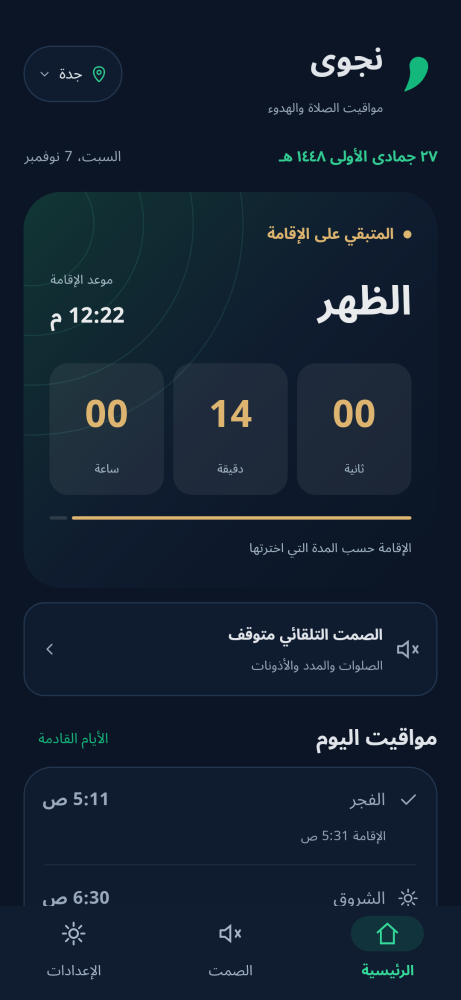
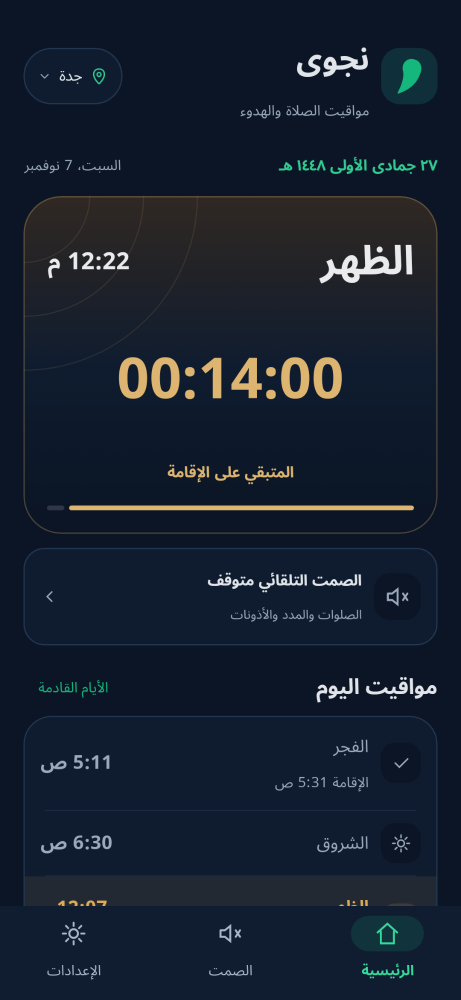
Refresh bilingual Najwa site for Android 1.1.0

diff --git a/docs/index.html b/docs/index.html
@@ -16,10 +16,10 @@
   <main class="shell">
     <section class="hero" aria-labelledby="title">
       <div>
-        <p class="eyebrow">أندرويد · الإصدار 1.0.0</p>
+        <p class="eyebrow">أندرويد · الإصدار 1.1.0</p>
         <h1 id="title">صلاتك أولاً،<br><em>وضجيجك لاحقاً.</em></h1>
         <p class="lead">تابع مواقيت الصلاة، واسمع الأذان بالنغمة التي تختارها. يعرض نجوى المتبقي على الإقامة ويضبط صمت الهاتف للمدة التي تحددها.</p>
-        <div class="actions"><a class="button primary" href="https://github.com/taroq4-2/Najwa/releases/download/v1.0.0/Najwa-1.0.0.apk">تحميل APK مباشرةً</a><a class="button" href="https://github.com/taroq4-2/Najwa">الشفرة على GitHub</a></div>
+        <div class="actions"><a class="button primary" href="https://github.com/taroq4-2/Najwa/releases/latest/download/Najwa.apk">تحميل APK مباشرةً</a><a class="button" href="https://github.com/taroq4-2/Najwa">الشفرة على GitHub</a></div>
         <p class="hint">Android 8.0 فأحدث · يعمل دون إنترنت · ملف تثبيت موقّع</p>
       </div>
       <figure class="phone"><img src="assets/home.png" width="461" height="1000" alt="واجهة نجوى الرئيسية تعرض وقت الظهر والعد التنازلي للإقامة"></figure>
@@ -32,9 +32,12 @@
         <article><h3>صمت تلقائي</h3><p>يبدأ بعد 20 ثانية من وقت الأذان للصلوات التي تختارها، ثم يستعيد وضع الرنين السابق. فعّل المنبّهات الدقيقة وإذن التحكم في الرنين عند الإعداد.</p></article>
       </div>
     </section>
+    <h2>نجوى على الشاشة</h2>
     <section class="gallery" aria-label="صور معاينة نجوى">
       <figure><img loading="lazy" src="assets/widget.png" alt="ويدجت نجوى الطولي يعرض التاريخ الهجري ووقت الإقامة"><figcaption>الويدجت على الشاشة الرئيسية</figcaption></figure>
-      <figure><img loading="lazy" src="assets/notification.png" alt="معاينة إشعار إقامة صلاة الظهر الموسّع"><figcaption>إشعار الإقامة الموسّع</figcaption></figure>
+      <figure><img loading="lazy" src="assets/notification.png" alt="إشعار أذان الظهر الموسّع مع عداد الإقامة"><figcaption>الأذان والعد التنازلي للإقامة</figcaption></figure>
+      <figure><img loading="lazy" src="assets/iqama.png" alt="الإشعار المختصر لإقامة الظهر"><figcaption>الإقامة · إشعار مختصر</figcaption></figure>
+      <figure><img loading="lazy" src="assets/friday.png" alt="إشعار الجمعة بالهوية الذهبية"><figcaption>تذكير صلاة الجمعة</figcaption></figure>
     </section>
     <section class="details">
       <article><h2>ابدأ استخدام نجوى</h2><ol><li>نزّل ملف APK وافتحه. وافق على التثبيت من المصدر إذا طلب Android ذلك.</li><li>افتح نجوى واختر مدينتك وطريقة الحساب المناسبة.</li><li>اسمح بالإشعارات والمنبّهات الدقيقة لتلقي التنبيهات. امنح إذن التحكم في الرنين لتفعيل الصمت التلقائي.</li><li>لإضافة الويدجت، اضغط مطولًا على الشاشة الرئيسية وابحث عن نجوى في الأدوات.</li></ol></article>

diff --git a/docs/en.html b/docs/en.html
@@ -16,10 +16,10 @@
   <main class="shell">
     <section class="hero" aria-labelledby="title">
       <div>
-        <p class="eyebrow">Android · Version 1.0.0</p>
+        <p class="eyebrow">Android · Version 1.1.0</p>
         <h1 id="title">Prayer first.<br><em>Noise can wait.</em></h1>
         <p class="lead">See your local prayer times, hear the adhan with a sound you choose, and follow the countdown to iqama. Najwa can silence your phone for the duration you set.</p>
-        <div class="actions"><a class="button primary" href="https://github.com/taroq4-2/Najwa/releases/download/v1.0.0/Najwa-1.0.0.apk">Download APK</a><a class="button" href="https://github.com/taroq4-2/Najwa">View source on GitHub</a></div>
+        <div class="actions"><a class="button primary" href="https://github.com/taroq4-2/Najwa/releases/latest/download/Najwa.apk">Download APK</a><a class="button" href="https://github.com/taroq4-2/Najwa">View source on GitHub</a></div>
         <p class="hint">Android 8.0 or later · Works offline · Signed APK</p>
       </div>
       <figure class="phone"><img src="assets/home.png" width="461" height="1000" alt="Najwa’s Arabic home screen showing Dhuhr and the iqama countdown"></figure>
@@ -32,9 +32,12 @@
         <article><h3>Automatic silent mode</h3><p>For the prayers you select, Najwa silences your phone 20 seconds after the scheduled adhan and restores its previous ringer mode when the interval ends. Exact alarm and ringer access are required.</p></article>
       </div>
     </section>
+    <h2>Najwa at a glance</h2>
     <section class="gallery" aria-label="Najwa app previews">
       <figure><img loading="lazy" src="assets/widget.png" alt="Vertical widget with a Hijri date and iqama timer"><figcaption>Home screen widget</figcaption></figure>
-      <figure><img loading="lazy" src="assets/notification.png" alt="Expanded notification for Dhuhr iqama"><figcaption>Expanded iqama notification</figcaption></figure>
+      <figure><img loading="lazy" src="assets/notification.png" alt="Expanded Dhuhr adhan notification with an iqama countdown"><figcaption>Adhan and iqama countdown</figcaption></figure>
+      <figure><img loading="lazy" src="assets/iqama.png" alt="Compact Dhuhr iqama alert"><figcaption>Iqama · Compact alert</figcaption></figure>
+      <figure><img loading="lazy" src="assets/friday.png" alt="Friday reminder with a gold accent"><figcaption>Friday prayer reminder</figcaption></figure>
     </section>
     <section class="details">
       <article><h2>Getting started</h2><ol><li>Download and open the APK. If prompted, allow installation from the source you used.</li><li>Open Najwa and select your city and calculation method.</li><li>Allow notifications and exact alarms for reminders. Grant ringer access for automatic silent mode.</li><li>To add the widget, press and hold your home screen and find Najwa in the widget picker.</li></ol></article>

diff --git a/docs/style.css b/docs/style.css
@@ -22,6 +22,8 @@ h2{font-size:clamp(1.55rem,4vw,2.3rem);line-height:1.4;margin-block:.2rem 1.2rem
 .actions,.shell footer div,footer div{display:flex;gap:.65rem;flex-wrap:wrap}
 .button{padding:.7rem 1.15rem;font-weight:700}
 .primary{background:var(--emerald);border-color:var(--emerald);color:#051b14}
+.primary:hover{background:var(--mint);border-color:var(--mint)}
+.button:not(.primary):hover,.language:hover{border-color:var(--mint)}
 .hint,figcaption{color:var(--muted);font-size:.88rem;margin-block-start:.7rem}
 .phone{justify-self:center;padding:.48rem;border:1px solid #3e5c63;border-radius:1.8rem;background:#07111c;box-shadow:0 1.4rem 4rem #0006}
 .phone img{display:block;width:clamp(11rem,26vw,17.25rem);height:auto;border-radius:1.34rem}
@@ -30,8 +32,9 @@ h2{font-size:clamp(1.55rem,4vw,2.3rem);line-height:1.4;margin-block:.2rem 1.2rem
 .cards article,.details article,.gallery figure{border:1px solid var(--line);border-radius:1.15rem;background:var(--surface);padding:1.3rem}
 .cards p,.details p,.details li{color:var(--muted)}
 .gallery,.details{grid-template-columns:repeat(2,1fr)}
-.gallery figure{display:grid;align-content:center;justify-items:center;min-height:18rem;background:linear-gradient(145deg,#132a3d,#10202f)}
-.gallery img{display:block;max-width:100%;max-height:16rem;border-radius:.9rem}
+.gallery figure{display:grid;grid-template-rows:minmax(0,1fr) auto;align-items:center;justify-items:center;min-height:18rem;background:linear-gradient(145deg,#132a3d,#10202f)}
+.gallery img{display:block;max-width:100%;max-height:16rem;object-fit:contain;border-radius:.9rem;box-shadow:0 .55rem 1.4rem #0004}
+.gallery figcaption{text-align:center;color:var(--text);font-weight:600}
 .details ol{padding-inline-start:1.35rem;margin-block:0}
 .details p+p{margin-block-start:.75rem}
 footer{border-top:1px solid var(--line);padding-block:1.8rem 2.2rem;color:var(--muted)}

diff --git a/README.md b/README.md
@@ -9,7 +9,7 @@ Najwa is an open-source Android app for prayer times, reminders and automatic si
 | العربية | English |
 | --- | --- |
 | [صفحة التطبيق](https://taroq4-2.github.io/Najwa/) | [App website](https://taroq4-2.github.io/Najwa/en.html) |
-| [تحميل APK الرسمي](https://github.com/taroq4-2/Najwa/releases/download/v1.0.0/Najwa-1.0.0.apk) | [Download the signed APK](https://github.com/taroq4-2/Najwa/releases/download/v1.0.0/Najwa-1.0.0.apk) |
+| [تحميل APK الرسمي](https://github.com/taroq4-2/Najwa/releases/latest/download/Najwa.apk) | [Download the signed APK](https://github.com/taroq4-2/Najwa/releases/latest/download/Najwa.apk) |
 
 [![Android verification](https://github.com/taroq4-2/Najwa/actions/workflows/android.yml/badge.svg)](https://github.com/taroq4-2/Najwa/actions/workflows/android.yml)
 
